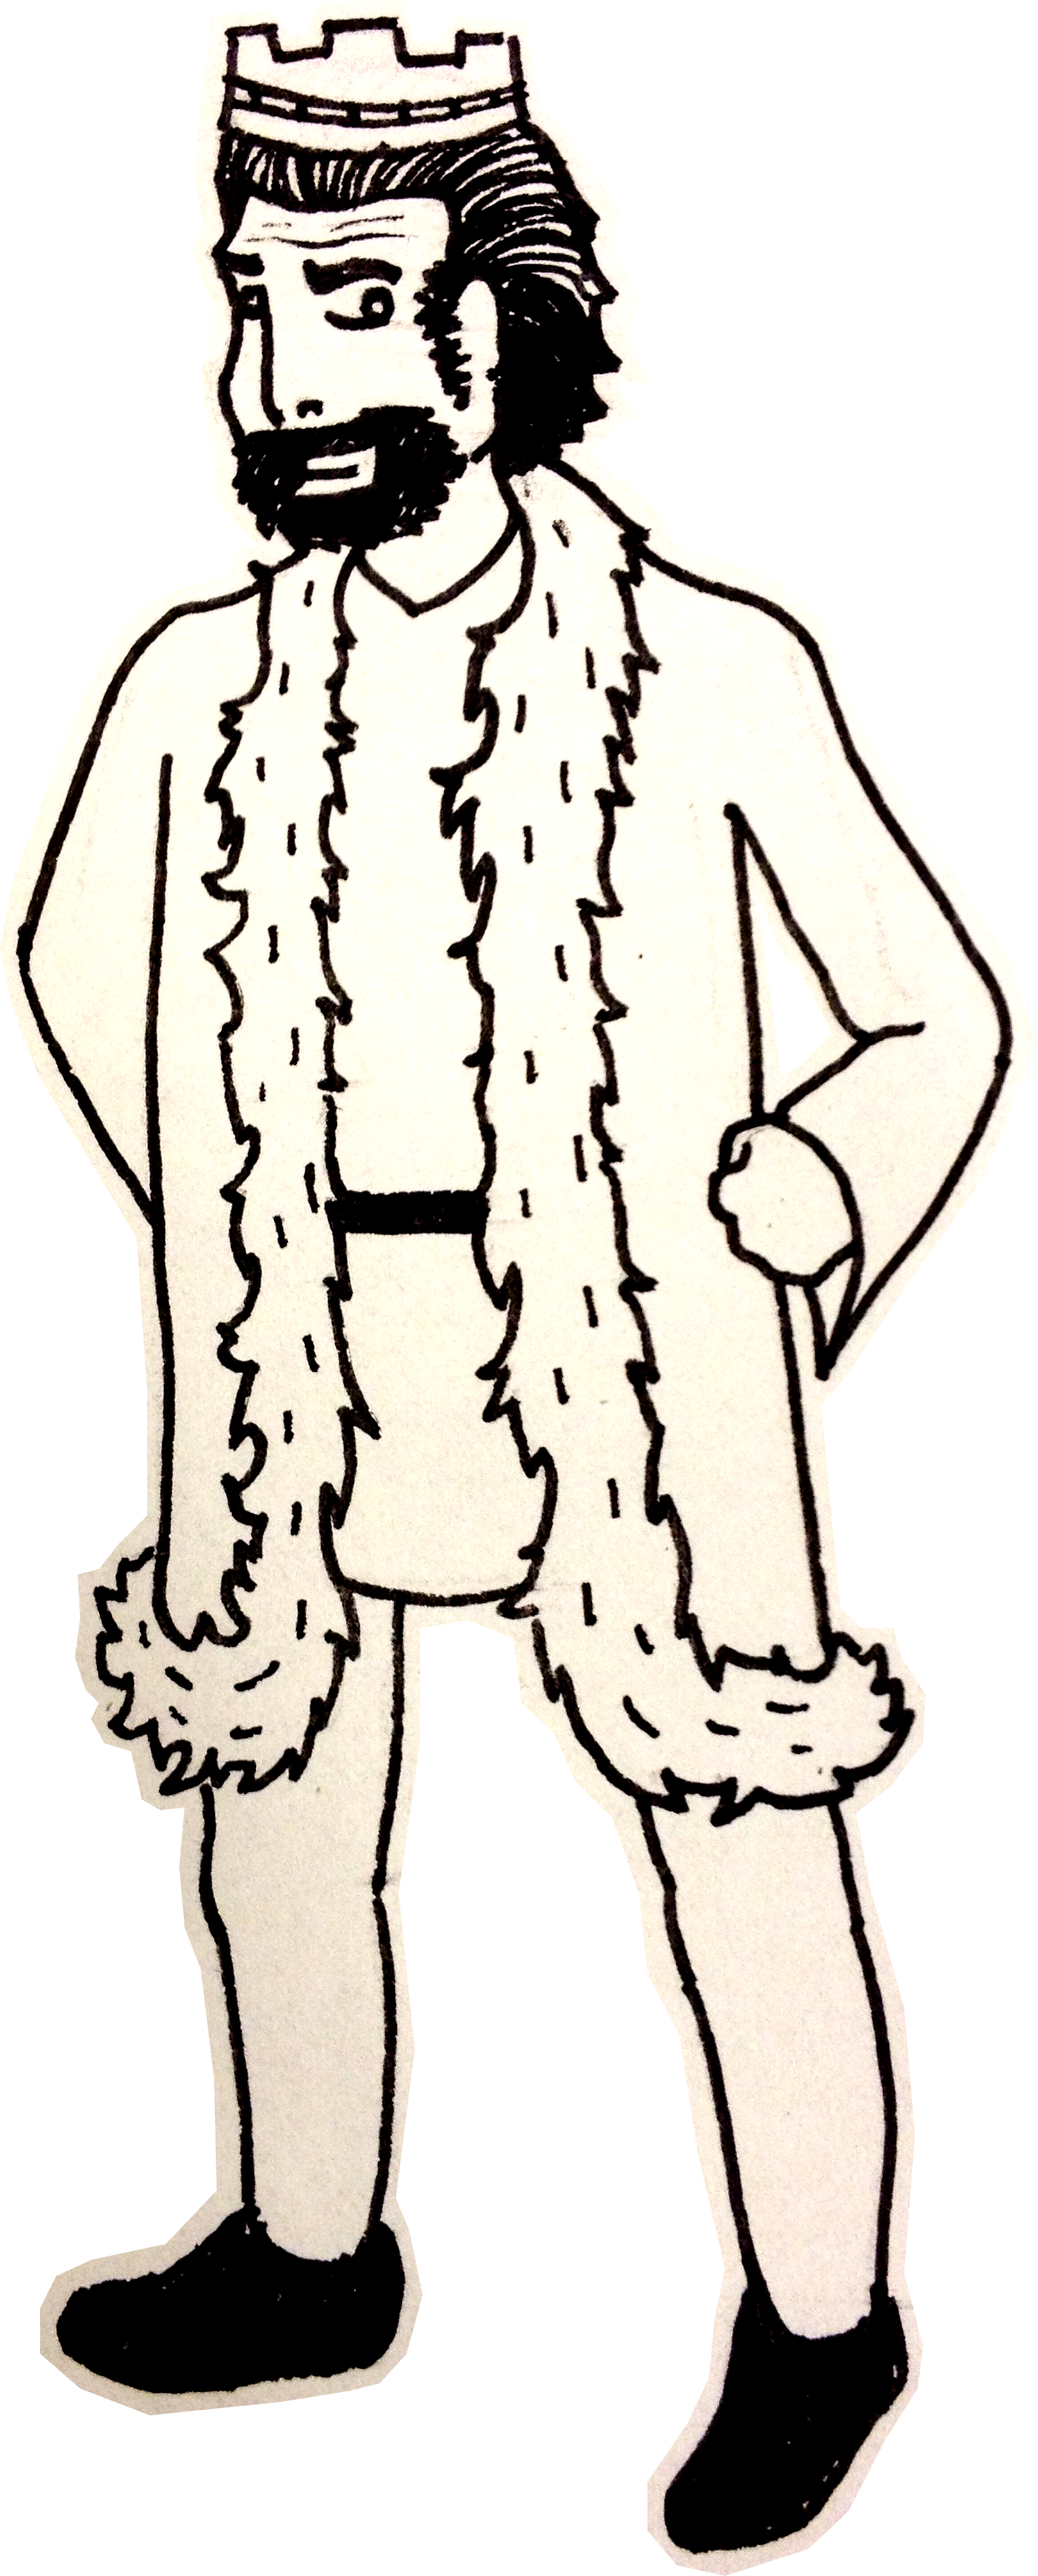
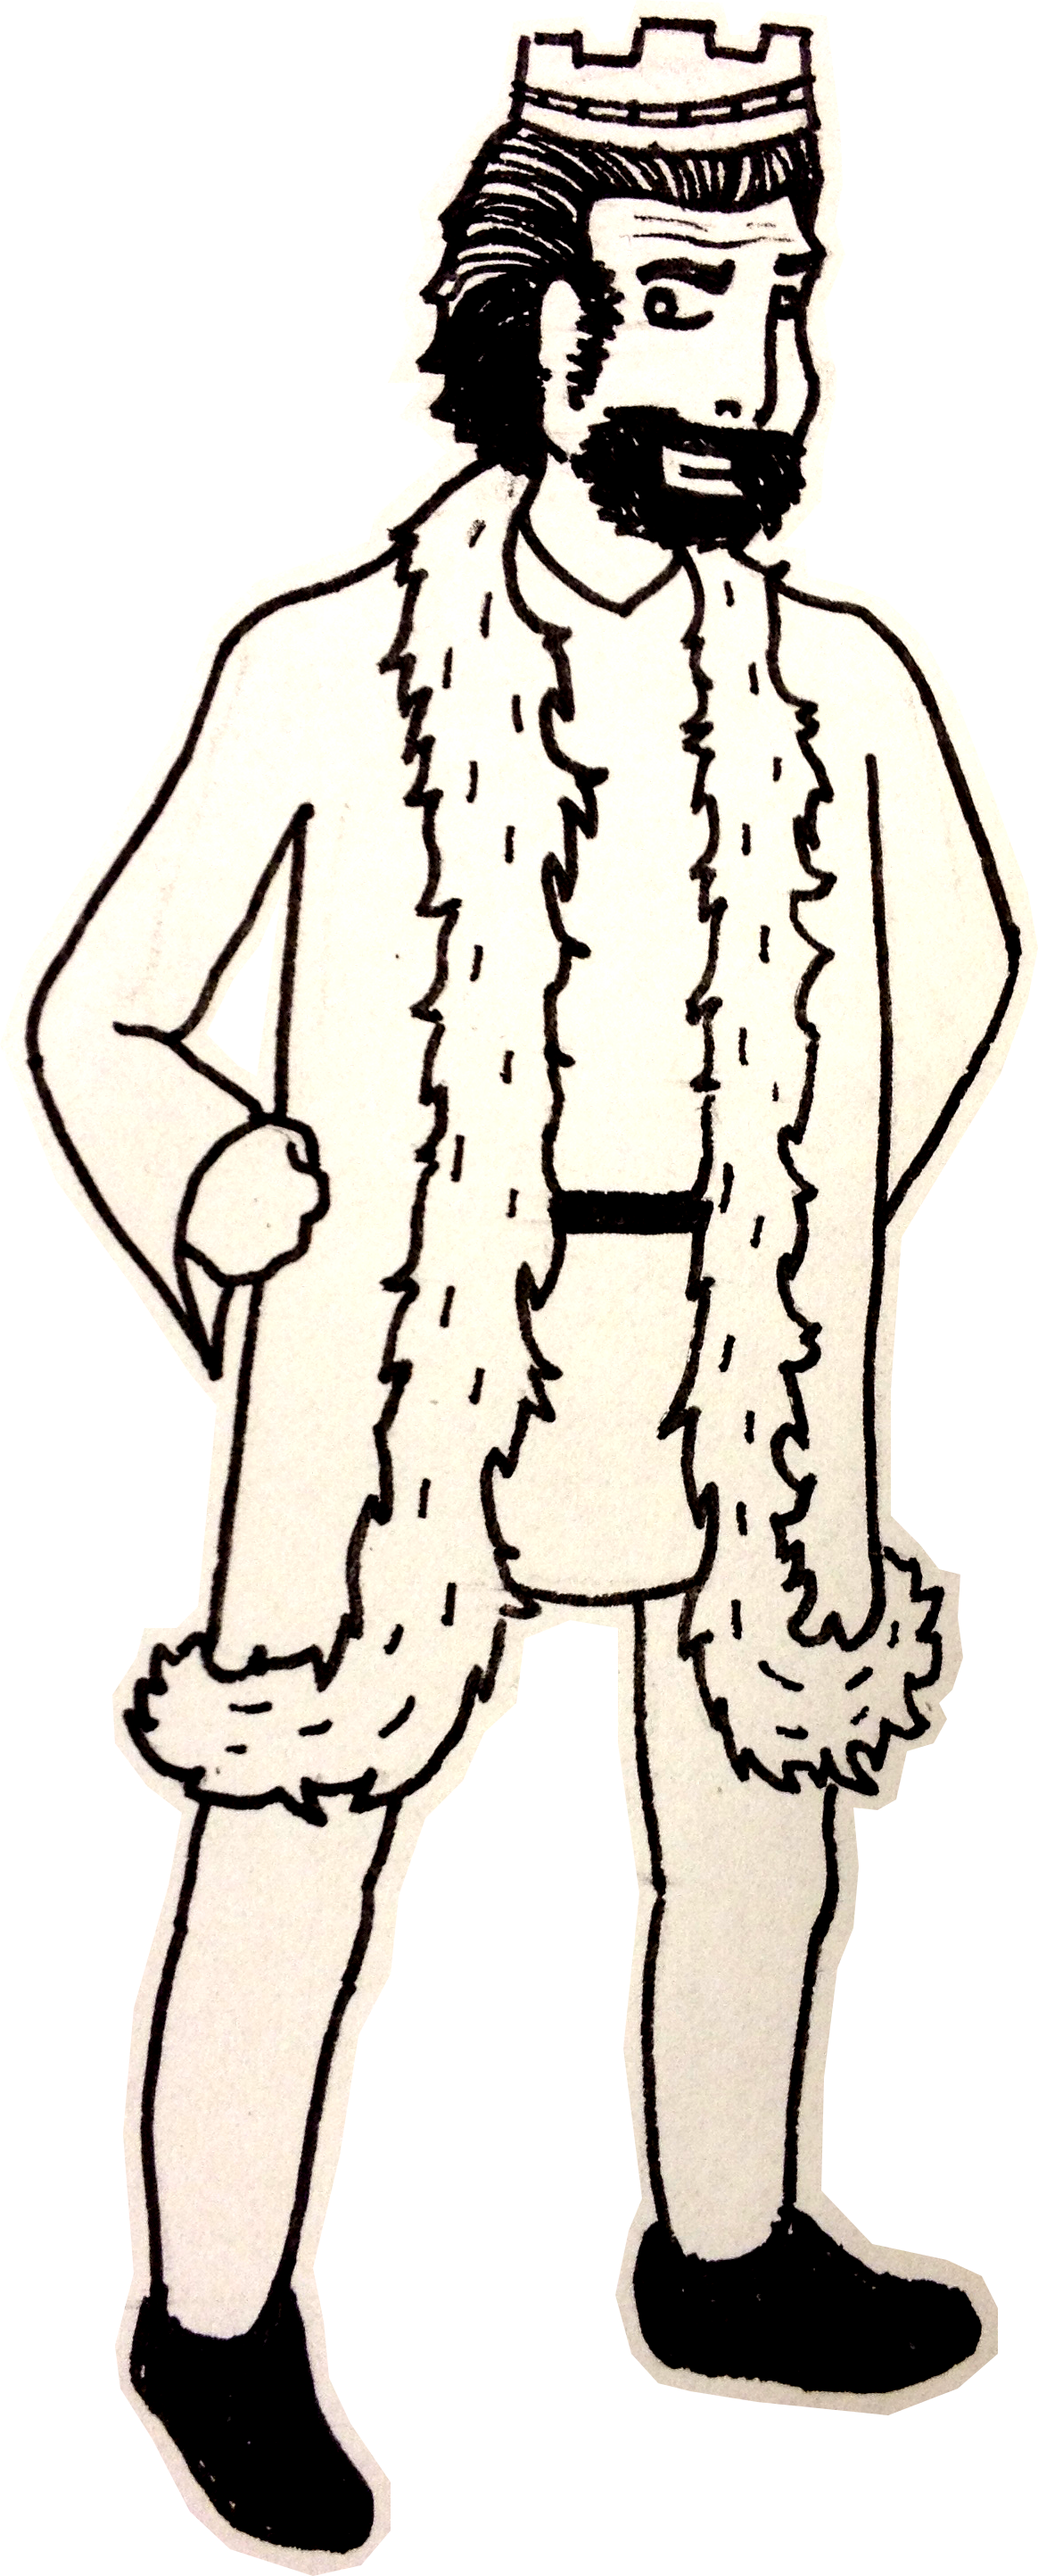
basic art callback

diff --git a/src/index.html b/src/index.html
@@ -4,7 +4,8 @@
 <meta charset="utf-8">
 <title>dinner-party faux pas</title>
 <script src="lib/jquery-1.12.0.min.js"></script>
-<!-- <script src="js/main.js"></script>-->
+<script src="js/main.js"></script>
+<script src="js/art.js"></script>
 <link rel="stylesheet" type="text/css" href="css/style.css" />
 </head>
 <body>

diff --git a/src/css/style.css b/src/css/style.css
@@ -46,7 +46,7 @@ body {
 	width:233px;
 	height:577px;
 	background-size:233px 577px;
-	transform: scaleX(-1);
+	
 }
 #gertrude{
 	background-image:url(gertrude-start.png);		
@@ -71,6 +71,6 @@ body {
 	width:198px;
 	height:559px;
 	background-size: 198px 559px;
-	transform: scaleX(-1);
+	
 }
 

diff --git a/src/js/art.js b/src/js/art.js
@@ -1,0 +1,6 @@
+
+
+function display(cmd){
+    console.log("in art display");
+    console.log(cmd);
+}
